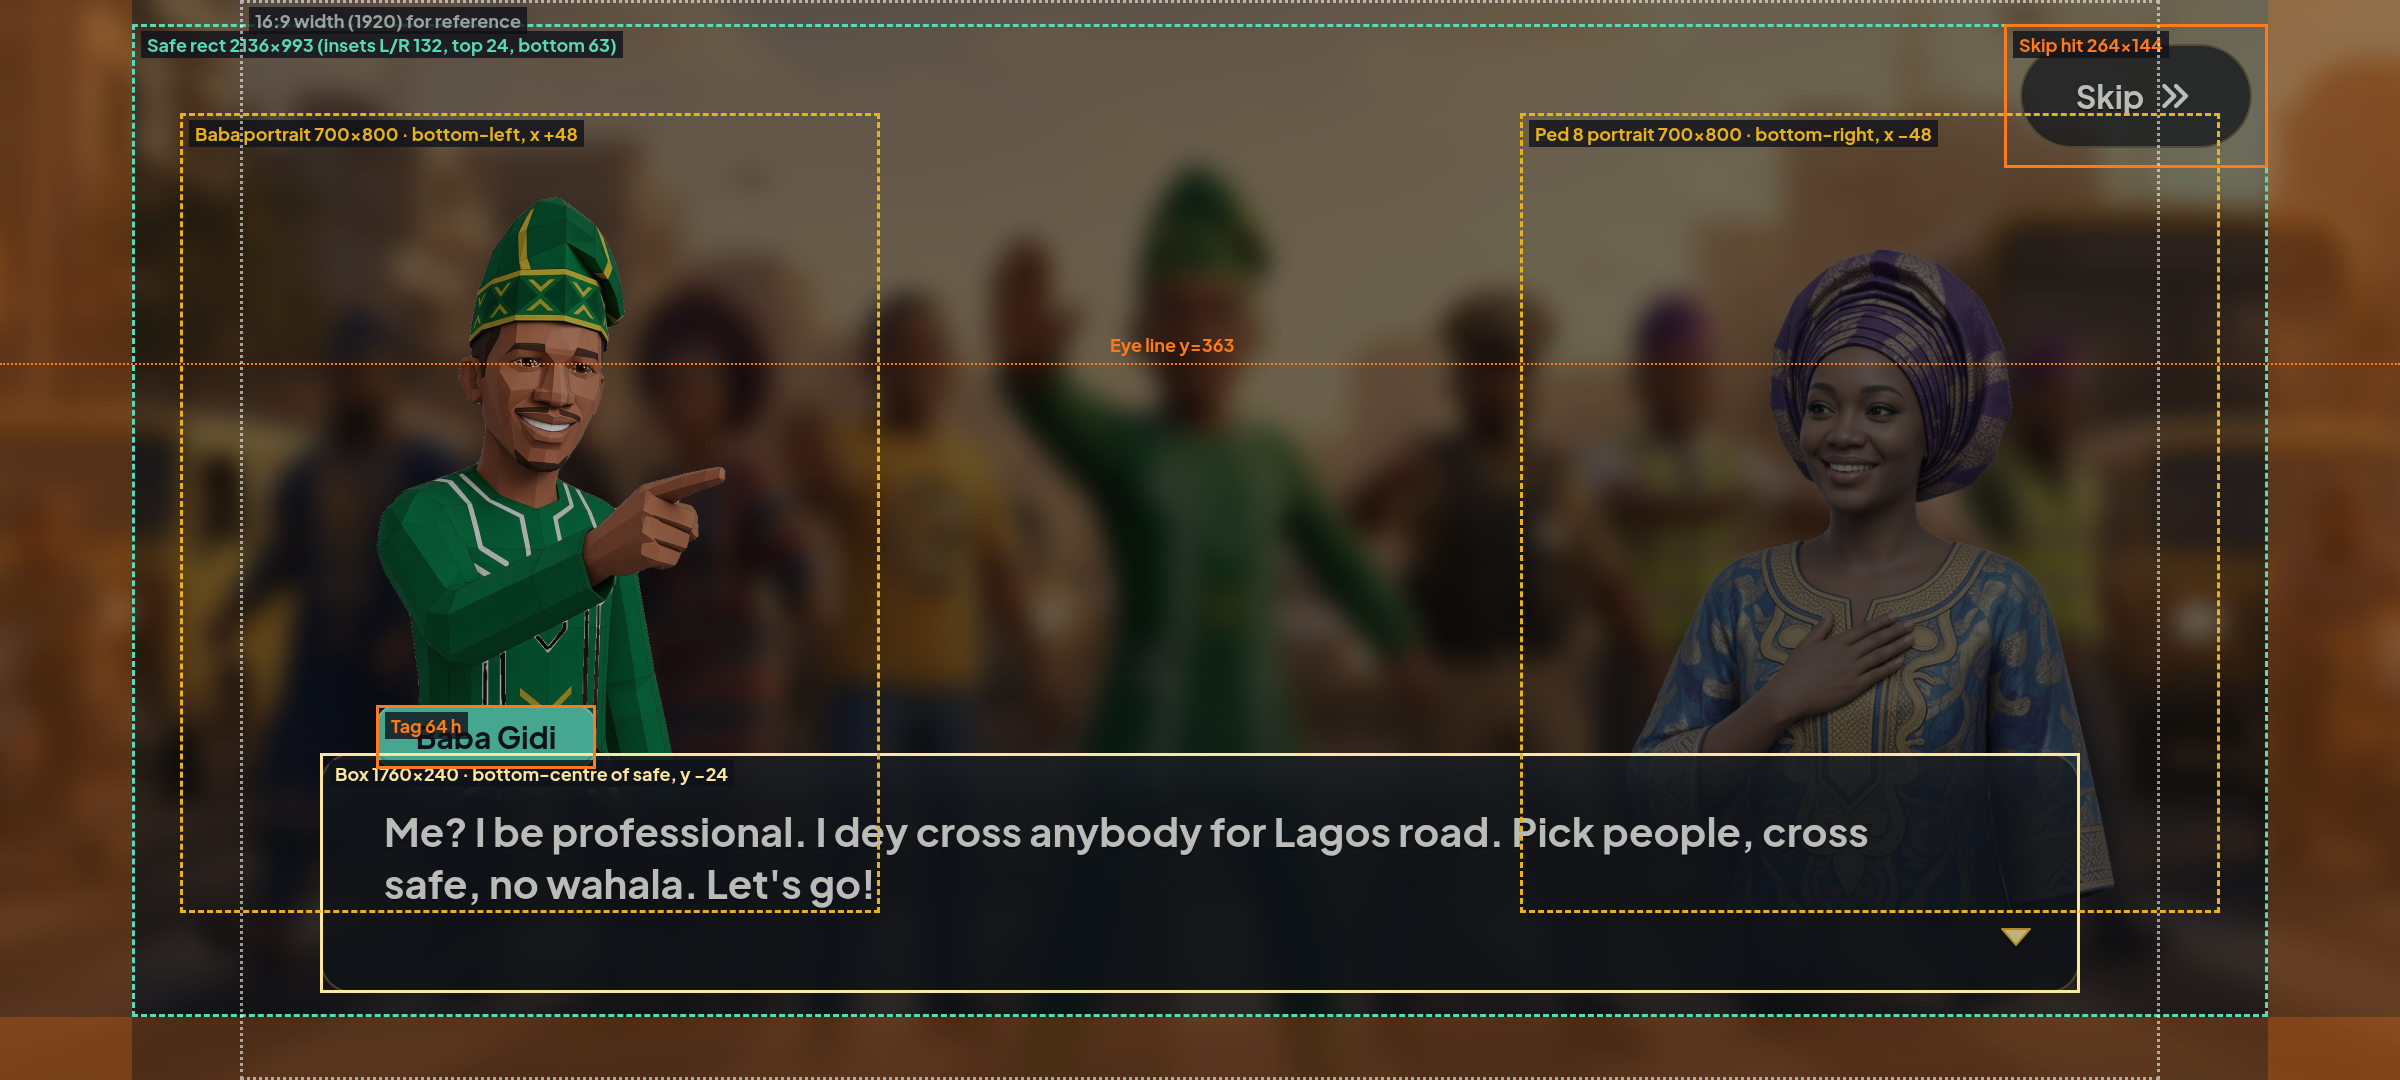
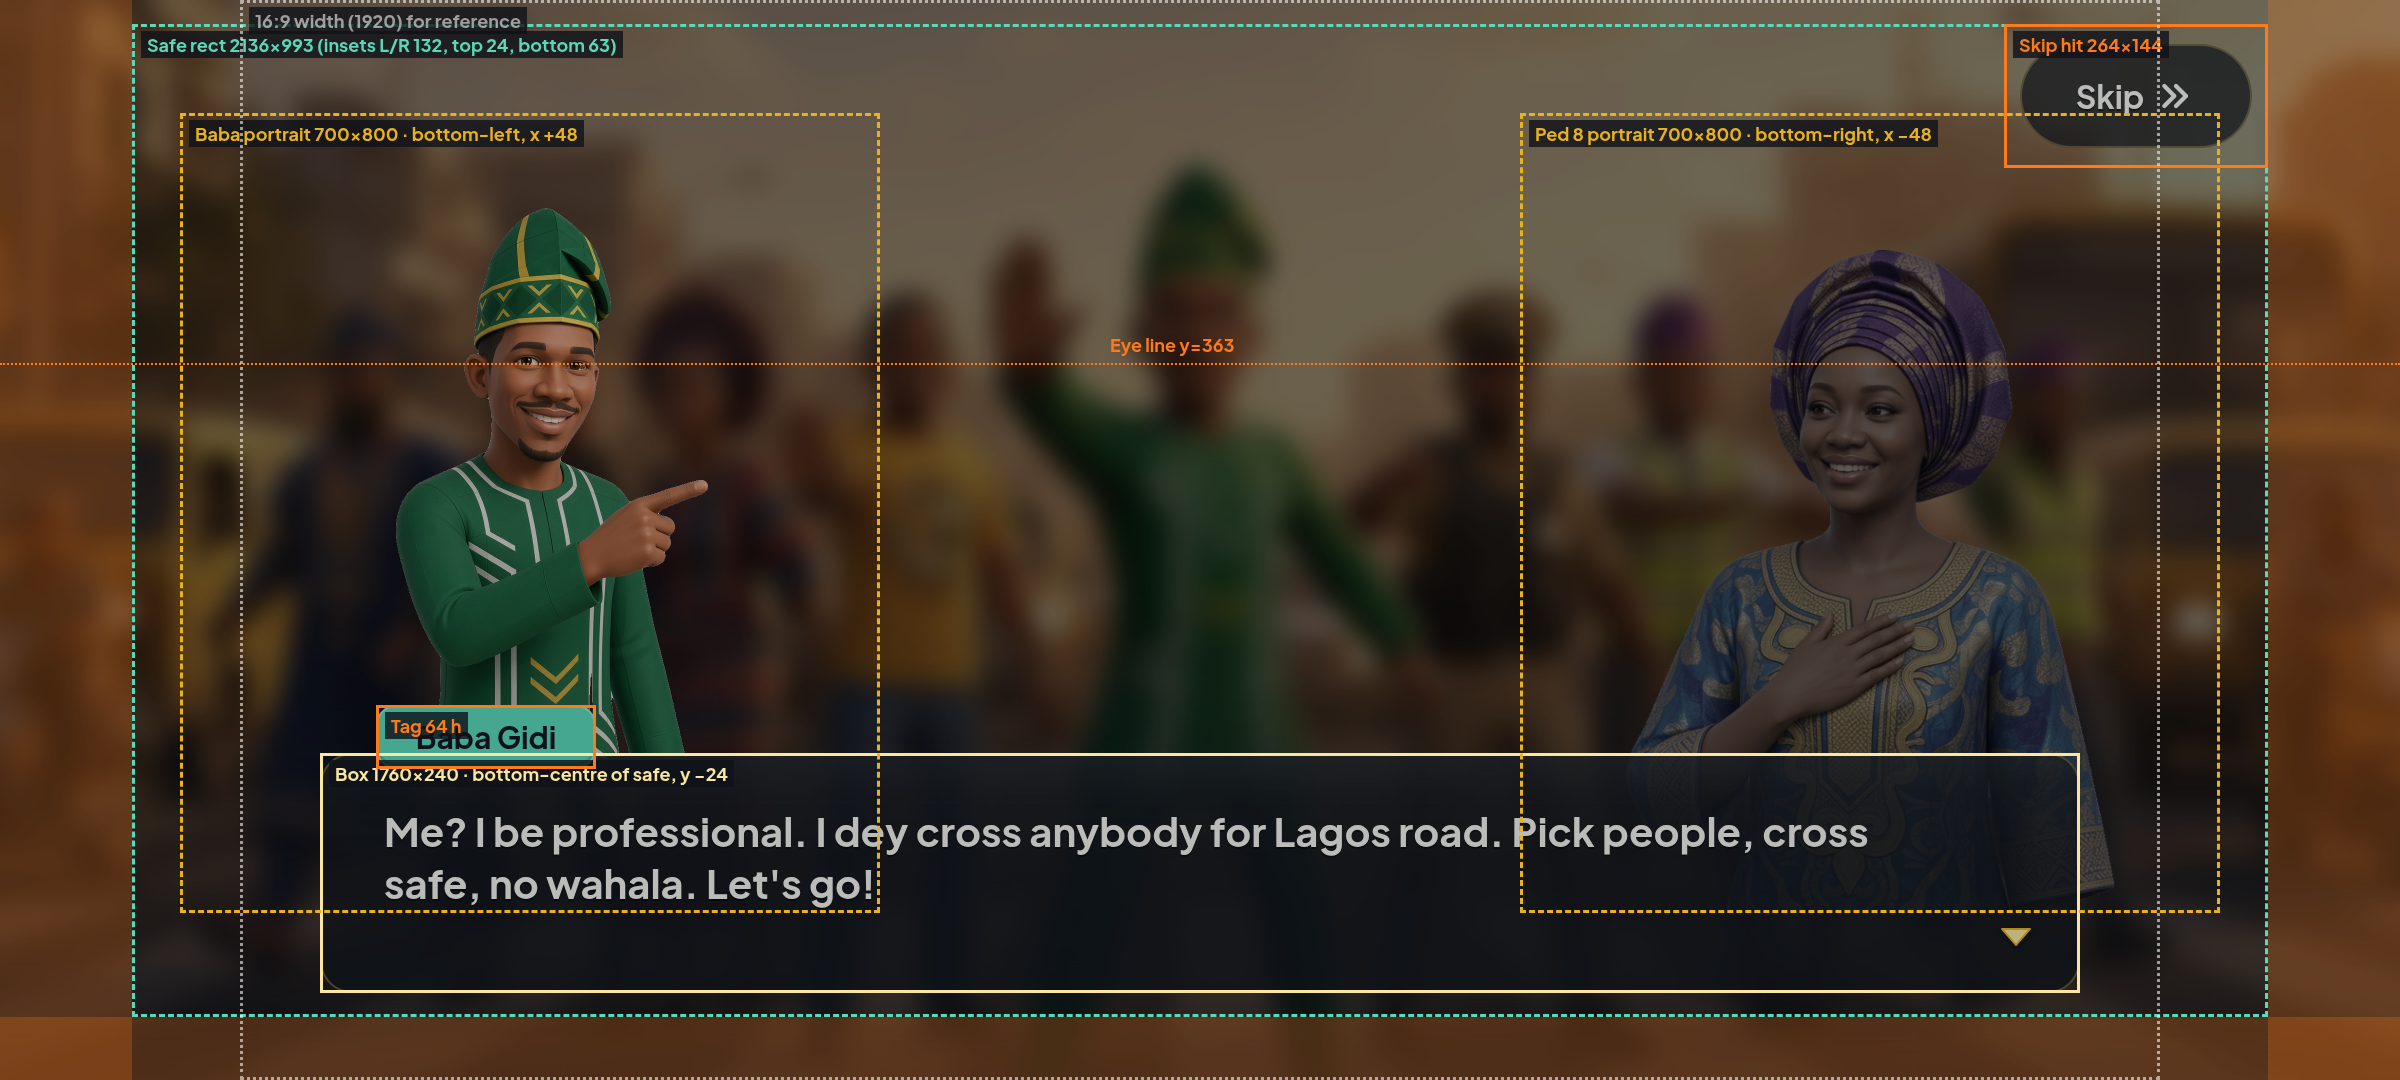
Intro dialogue v2: Baba Gidi HD smooth portraits, updated mockups

Changed region(s): [[0.1562, 0.1833, 0.3125, 0.7028]]

diff --git a/exports/unity/intro_dialogue/README.md b/exports/unity/intro_dialogue/README.md
@@ -2,6 +2,8 @@
 
 # GPP-INTRO-DIALOGUE: Baba Gidi intro dialogue (art + UI spec)
 
+> **v2 (Nov 27): Baba Gidi is now in the HD smooth stylised 3D style** (Kehinde-approved reference `gidi/characters/baba-gidi-hd-v1-stylized.jpg`), replacing the v1 low-poly portraits. Same five expressions, file names, sizes (700×800 / 1400×1600), pivot, framing, eye line (y 250 @1x) and facing. Ped 8 and all UI sprites are unchanged from v1. Mockups re-rendered.
+
 Design only. Shown once to first-time players before Level 1, replayable from Settings. Landscape only, uGUI with **legacy `UnityEngine.UI.Text`** (Best Fit off, no Outline, one `Shadow` over glass), CanvasScaler 1920×1080, match height 1.0. Style: the existing dusk glass (`gen_unity.py` GLASS recipe), teal `#59D9B8`, orange `#FF7A1A`, gold `#E8B21E`, Naira gold `#FAE69E`. Tap targets ≥ 144 px (canvas units).
 
 Unity copy: `gidi-design/exports/unity/intro_dialogue/` (sprites in its own `sprites@1x/` and `sprites@2x/`, PPU 100 / 200, entries appended to `exports/unity/manifest.json`).
@@ -122,7 +124,9 @@ Import as the rest of `exports/unity` (Sprite 2D and UI, Full Rect, Bilinear, no
 | `portrait_baba_{neutral,laughing,surprised,proud,pointing}` | 700×800 | – | 0.5, 0 | Baba, faces right, eye line y 250 |
 | `portrait_ped8_{neutral,pleading,happy}` | 700×800 | – | 0.5, 0 | Ped 8, faces left, eye line y 250 |
 
-Portraits: transparent PNG, waist-up, same head scale and eye line across all 8; the bottom ~80 px fades to transparent (hidden under the box). The @2x portraits (1400×1600) are upscaled about 1.3× from the 864×1152 generated source, so they are a little soft at full 2x; @1x is native-sharp. If 2x crispness matters on tablets, re-render the 3D characters at 2x and drop them into the same frames.
+Portraits: transparent PNG, waist-up, same eye line across all 8 (y 250 @1x / 500 @2x).
+
+**Baba v2 resolution:** the image tool's maximum output is about 1 MP (864×1152 at 3:4; 720×1280 at 9:16), so a full 1400×1600 frame cannot be generated natively. The Baba @2x portraits are therefore built at **1:1 from the 864×1152 sources, never upscaled** (scale 1.000 for all five); the figure fills the 1400×1600 canvas and the rest is transparent. @1x is a Lanczos downscale of @2x. Holding scale at 1.0 makes Baba's head 91–99% of the v1 head size (neutral 99%, proud 97%, surprised 94%, laughing 92%, pointing 91%); the eye line is exact. Because the sources are framed tight, the bottom crop of each Baba portrait sits only 5–22 units under the box top (bottom at 645–662 of 800 @1x, with a 6 unit soft edge), so don't raise the box or lower the portraits without re-checking. Ped 8 is still v1 (upscaled about 1.3× at @2x from 864×1152).
 
 ## Files
 ```
@@ -136,14 +140,18 @@ GPP-INTRO-DIALOGUE/
   mockups/intro-line{1,2,8}-16x9-1920x1080.png, intro-line8-16x9-1920x1080-guides.png
   mockups/intro-line{1,2,8}-20x9-2400x1080.png, intro-line8-20x9-2400x1080-guides.png
   tools/gen_ui.py                 UI sprites (headless Chrome, same method as gen_unity_settings.py)
-  tools/cut.py, tools/compose.py  rembg cut-out (isnet-general-use) + edge clean + scale/eye-line normalise
+  tools/cut.py, tools/compose.py  v1: rembg cut-out (isnet-general-use) + edge clean + scale/eye-line normalise (Ped 8 still from this)
+  tools/compose_v2.py             v2 Baba: native 1:1 @2x from the HD sources, @1x downscaled from @2x
   tools/gen_mockups.py            mockups and guide overlays
-  work/raw, work/cut              generated source images and raw cut-outs
+  work/raw, work/cut              v1 generated sources and cut-outs (Ped 8 + old low-poly Baba)
+  work/raw_v2, work/cut_v2        v2 HD Baba sources (864×1152) and cut-outs, incl. rejected takes
 gidi-design/exports/unity/intro_dialogue/
   README.md (copy), sprites@1x/{ui,portraits}/, sprites@2x/{ui,portraits}/, mockups/
 ```
 Names in `<name>`: baba_neutral, baba_laughing, baba_surprised, baba_proud, baba_pointing, ped8_neutral, ped8_pleading, ped8_happy.
 
 ## Notes on the art
-- Baba Gidi keeps the reference's flat-faceted low-poly look in all five portraits (fila, white trim, gold chevrons). The pointing portrait was generated slightly closer, so it was scaled down to match head size; its waist crop sits under the box.
-- Ped 8 matches her own reference, which is a smoother semi-real render than Baba's low-poly. The two therefore differ a little in finish, exactly as their reference renders do.
+- **Baba Gidi v2** uses the HD smooth stylised look from `baba-gidi-hd-v1-stylized.jpg`: smooth shaded skin and fabric, green senator with white trim and gold chevron, green/gold fila with the yellow X band, moustache and goatee. Sources used: neutral `neutral_a`, laughing `laughing_b`, surprised `surprised_d`, proud `proud_b`, pointing `pointing_c` (in `work/raw_v2/`). Takes were rejected for a hand cut by the frame edge (surprised), a head too small to stay native (proud, surprised and laughing variants), or arms touching the frame edge.
+- The approved reference itself shows faint planar shading on the cheeks and a soft centre line on the chin. The v2 portraits carry the same subtle shading, which is consistent with the reference and not a low-poly mesh. The fila's folded cloth panels are angular, as in the reference.
+- Proud no longer has the second hand on the hip (it's out of frame), and the hand rests on the collar.
+- Ped 8 matches her own reference, a smoother semi-real render. Baba v2 is now closer to her finish than v1 was.
